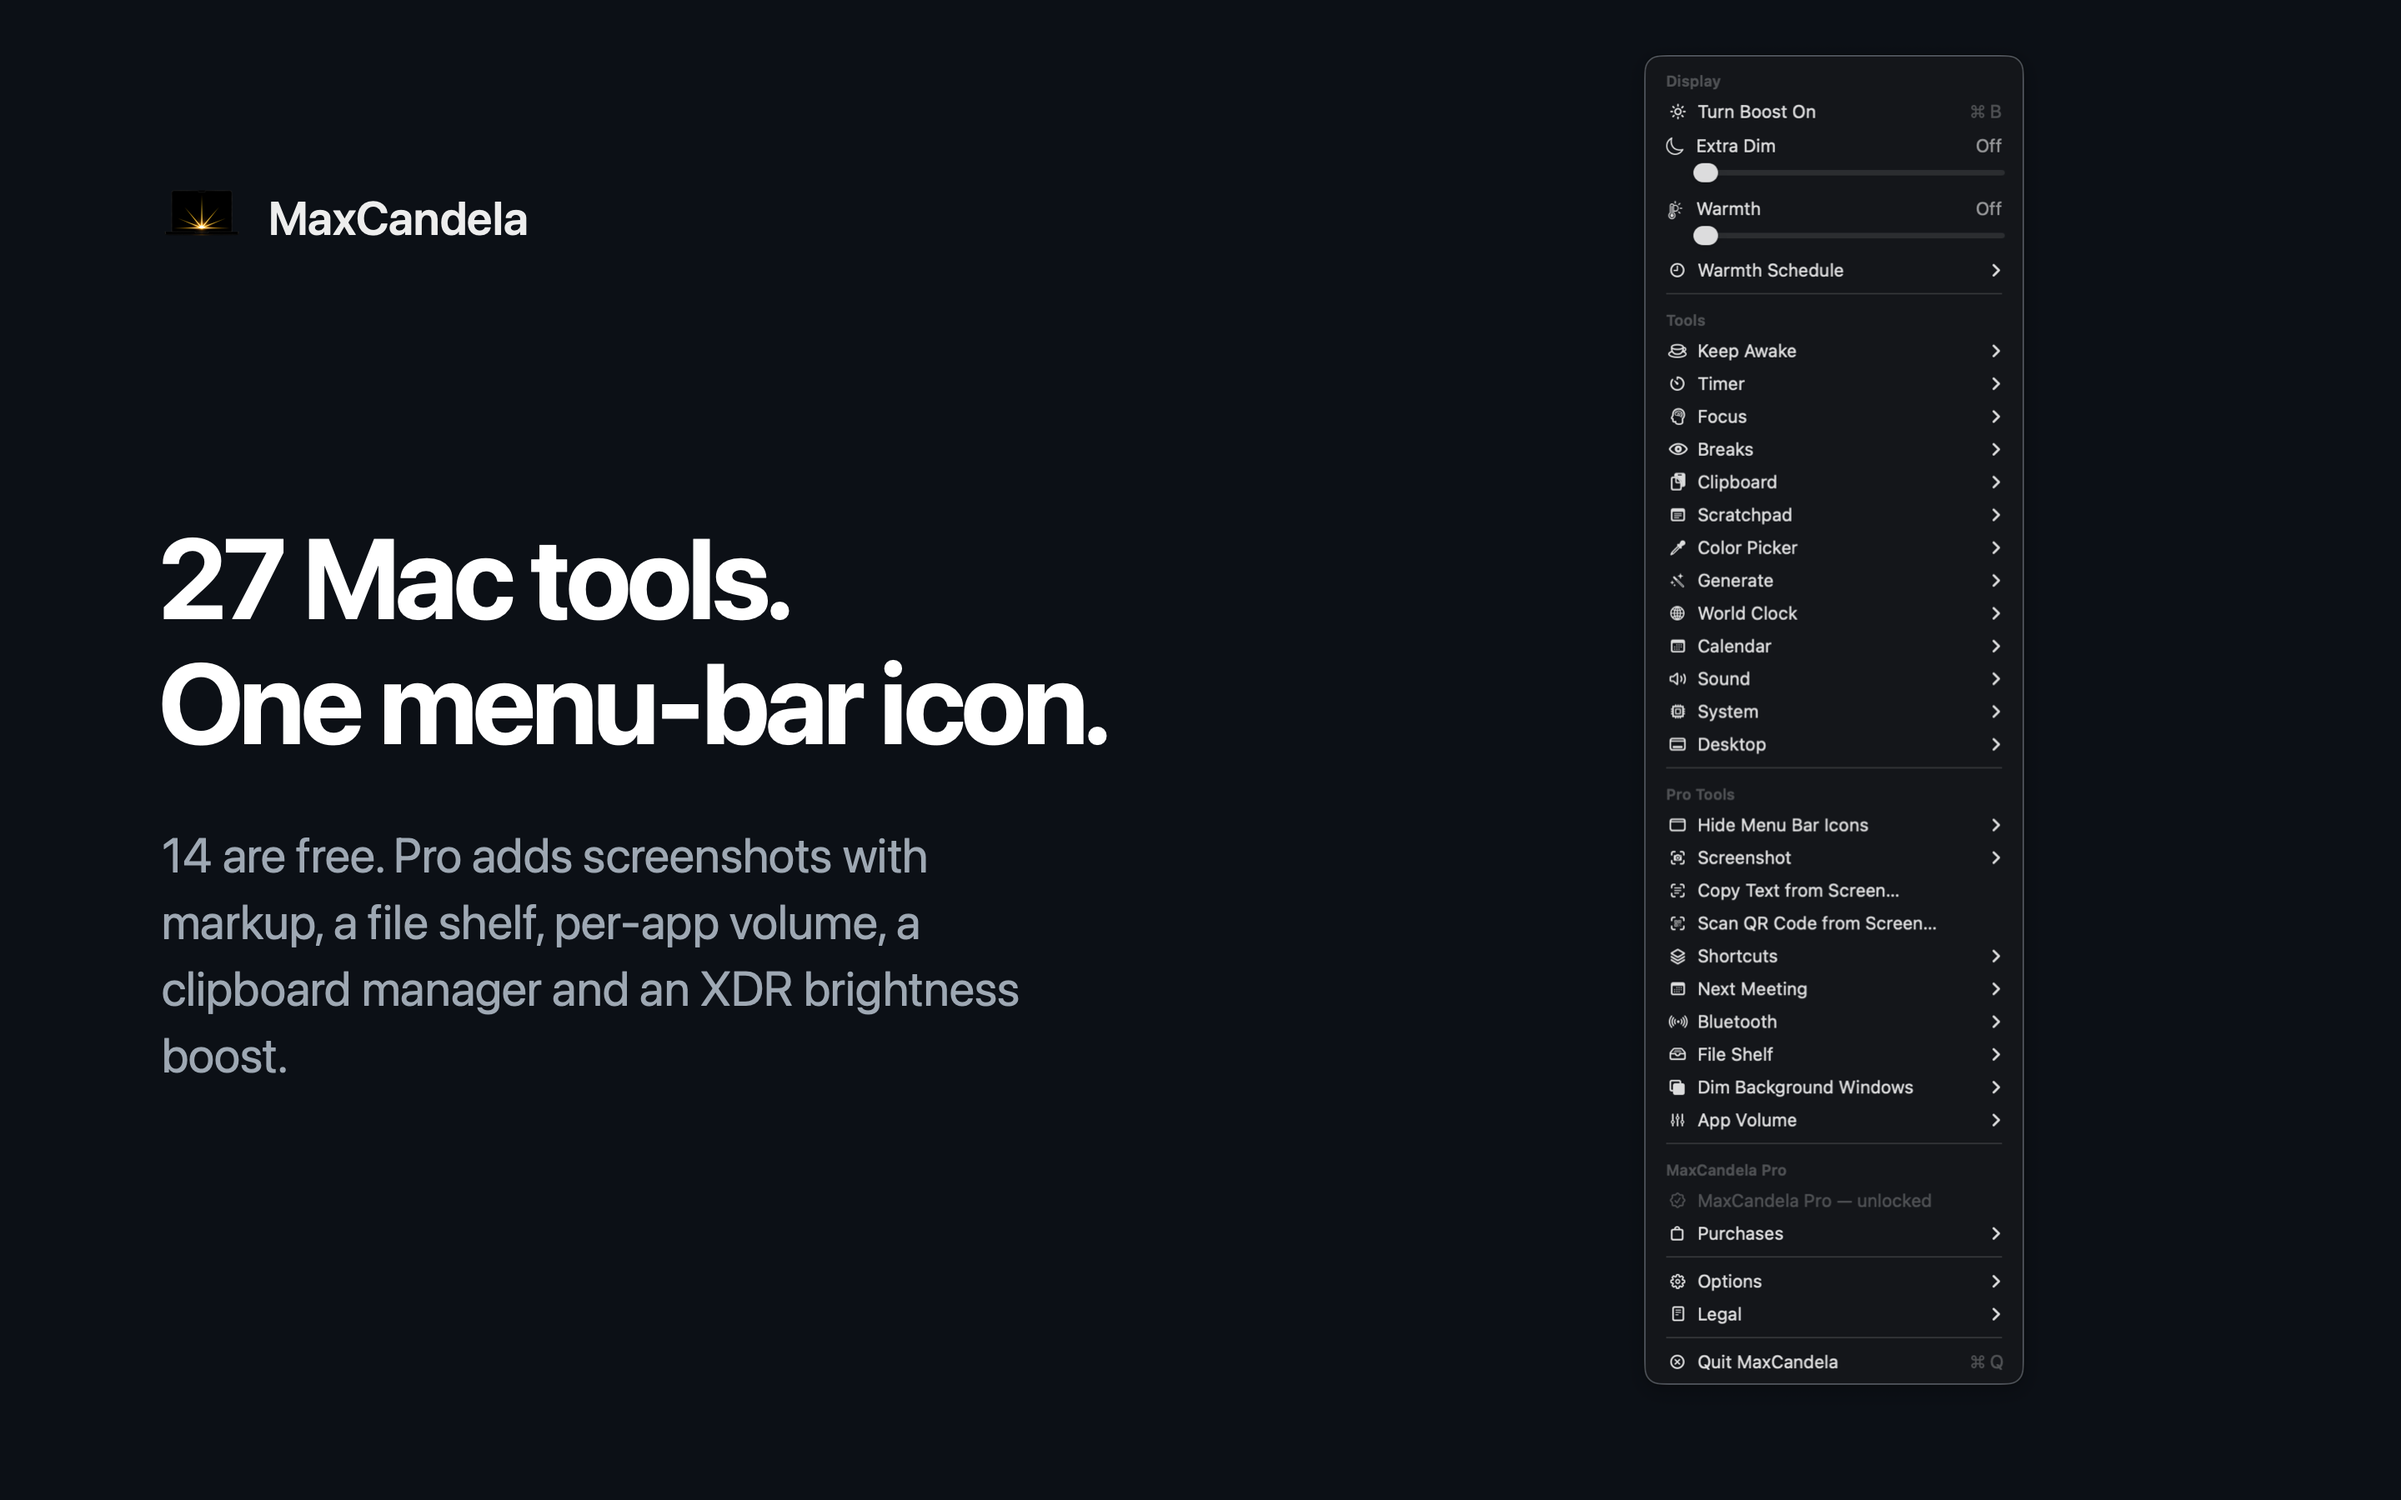
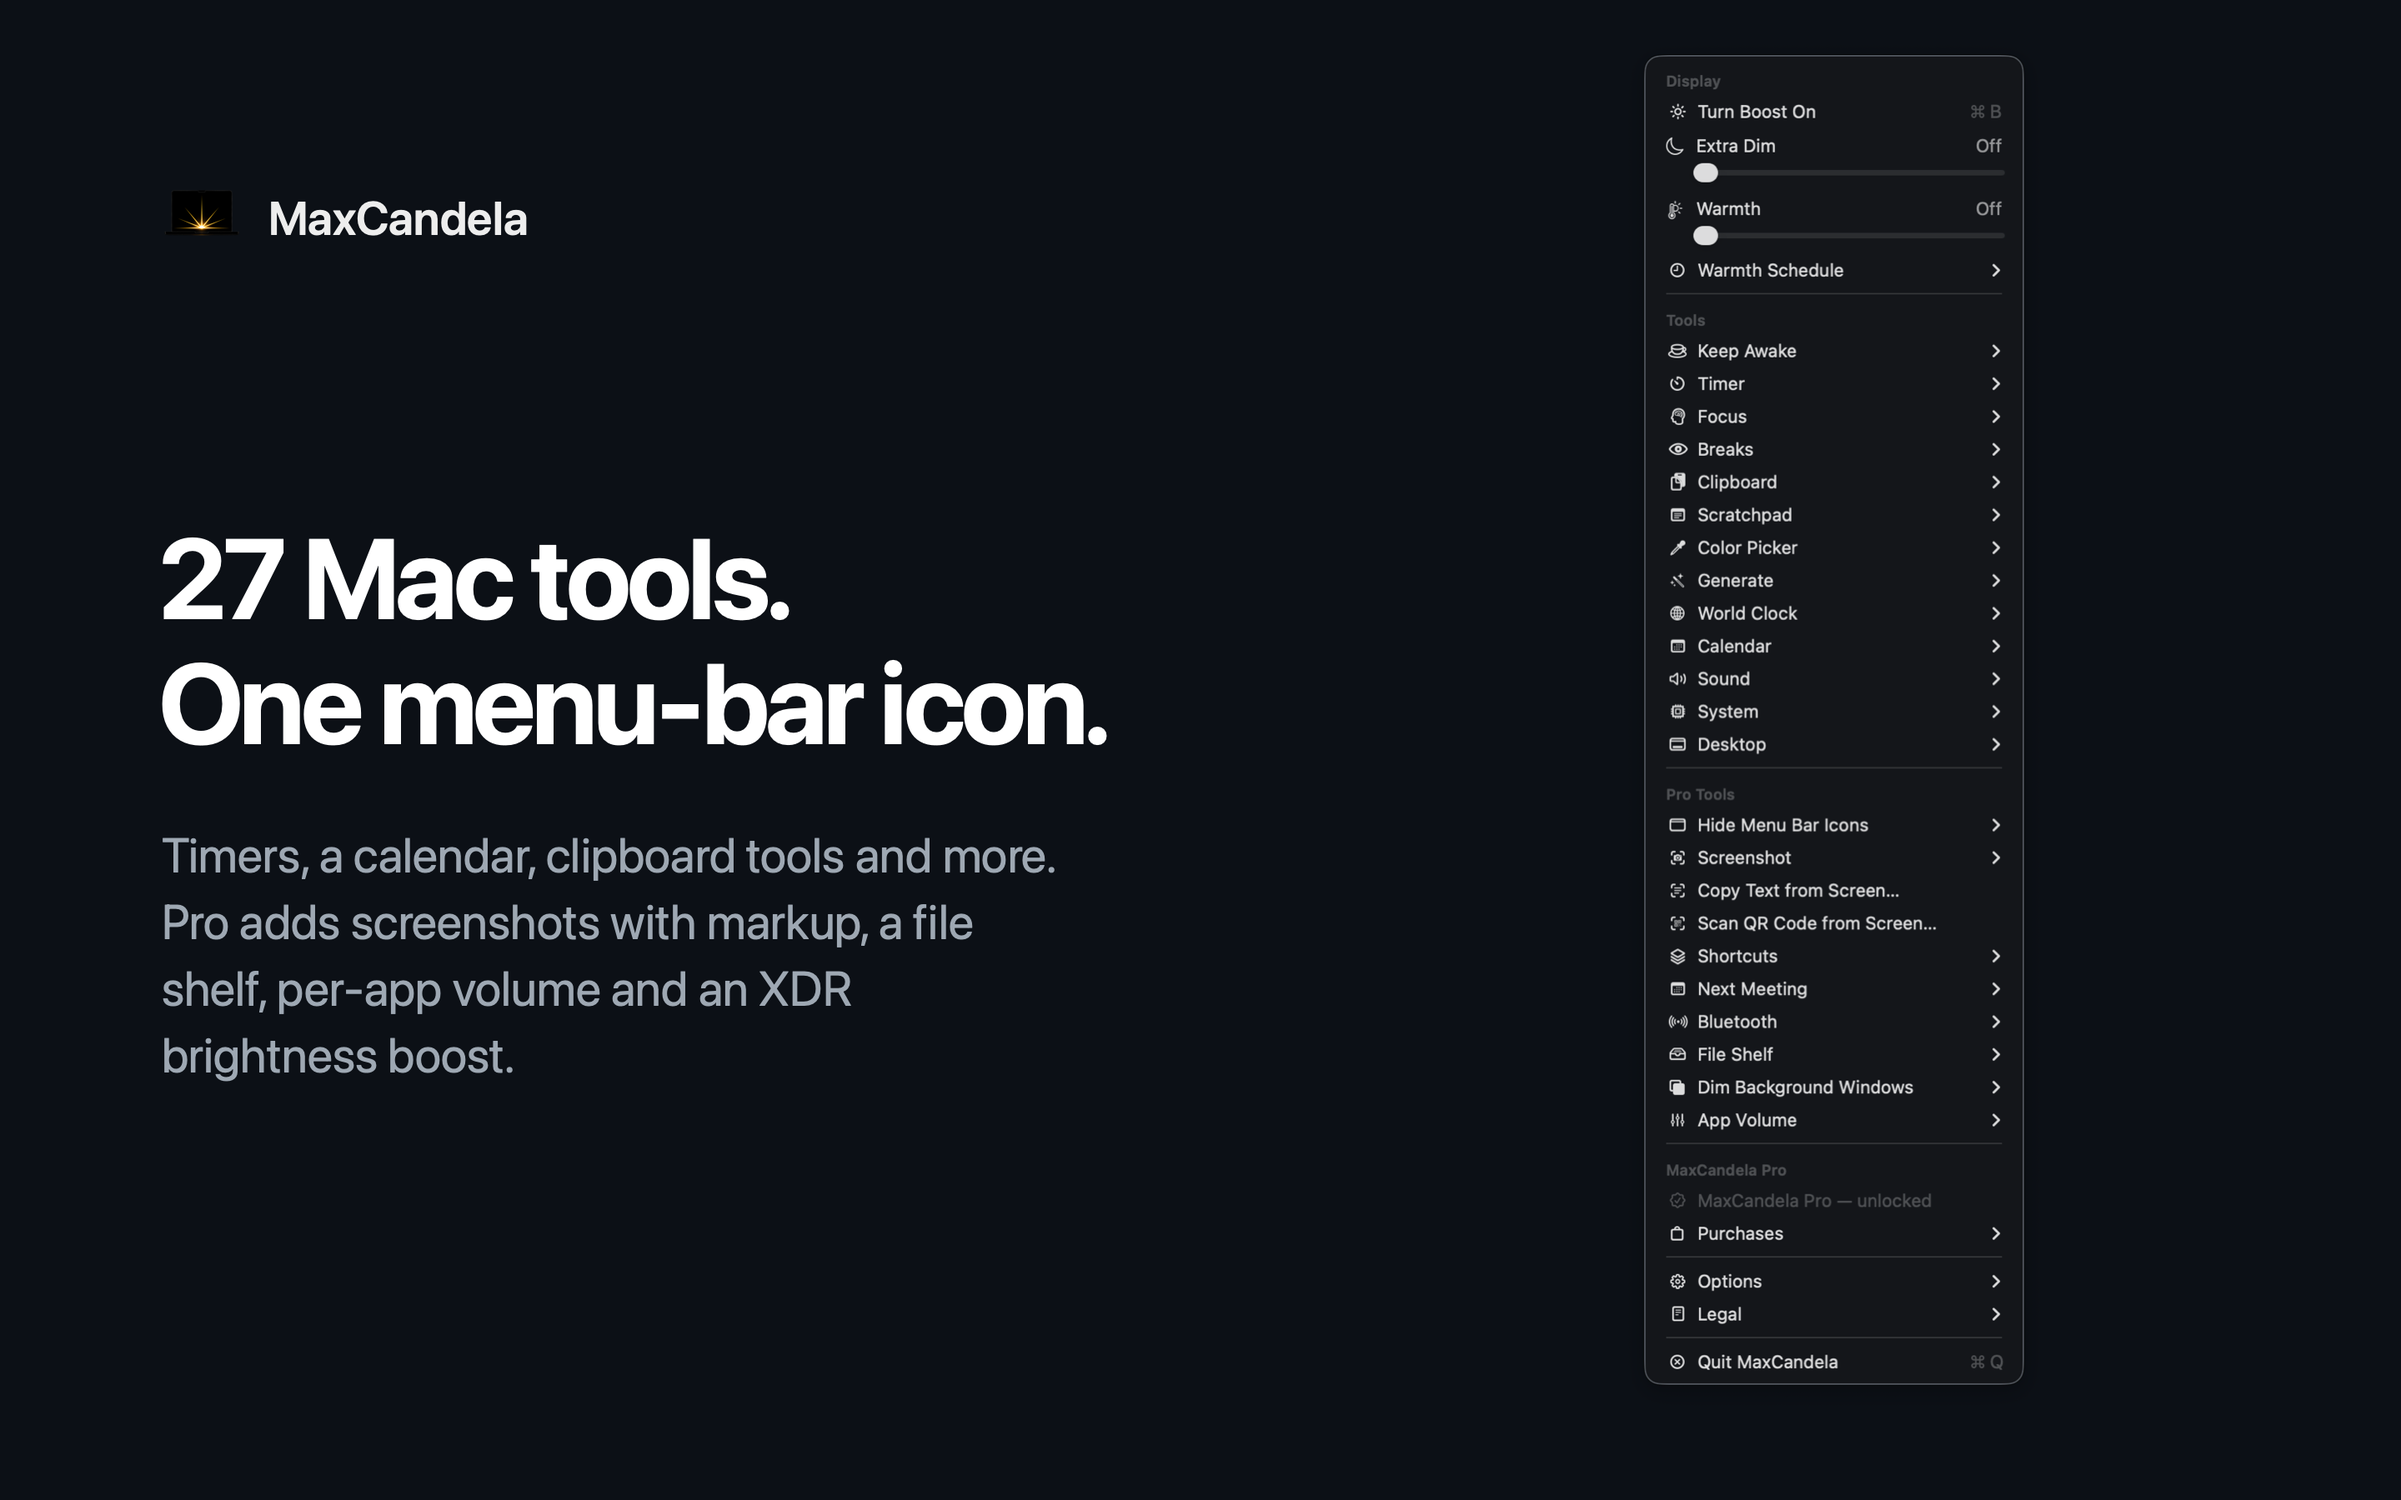
Store screenshot 1: drop "14 are free" (Guideline 2.3.7)
App Review rejected 2.1.4 (24) because the first screenshot's caption
said "14 are free." — Apple counts "free" in a screenshot as a price
reference. Caption reworded, 1-toolbox.png recomposed from the existing
captures, and the rule noted in CLAUDE.md.

Changed region(s): [[0.0625, 0.56, 0.4375, 0.7156]]

diff --git a/scripts/make-app-screenshots.swift b/scripts/make-app-screenshots.swift
@@ -48,7 +48,9 @@ let menuBehind = Layer(file: "main", scale: 0.8, centre: CGPoint(x: 1640, y: 900
 let shots: [Shot] = [
     Shot(name: "1-toolbox",
          headline: "27 Mac tools.\nOne menu-bar icon.",
-         body: "14 are free. Pro adds screenshots with markup, a file shelf, per-app volume, a clipboard manager and an XDR brightness boost.",
+         // No "free", no prices, no "trial" in any caption: App Review rejected
+         // 2.1.4 (24) under Guideline 2.3.7 for "14 are free." here (2026-11-25).
+         body: "Timers, a calendar, clipboard tools and more. Pro adds screenshots with markup, a file shelf, per-app volume and an XDR brightness boost.",
          layers: [Layer(file: "main", scale: 0.82, centre: CGPoint(x: 2200, y: 900))]),
     Shot(name: "2-calendar",
          headline: "Your month,\nin the menu bar.",

diff --git a/CLAUDE.md b/CLAUDE.md
@@ -744,6 +744,14 @@ set so they show the App Store build's tool list (no Window Snapping), the
 flat layout, and — for the calendar — an expired trial, so no real events can
 appear. A markup-editor screenshot was tried twice and dropped (Daniel:
 "looks bad"); don't re-add it unasked.
+**No price words in a caption — "free" counts** (Guideline 2.3.7). 2.1.4 (24)
+was rejected on 2026-11-25 for shot 1's "14 are free."; the caption was
+reworded and `1-toolbox.png` recomposed the same day, the screenshot was
+replaced in App Store Connect and 2.1.4 (24) resubmitted ("Waiting for
+Review", 2026-11-25 6:26 PM). Prices and the trial belong in the description,
+where 2.3.2 requires them. App Store Connect also holds a **2.1.4 (25)** that
+this repo has no record of (source is at 24); it was deliberately not
+submitted.
 They are composed from **real captures** of the menus: the debug app's
 screenshot mode (`MAXCANDELA_SHOT`, bottom of `MenuBarController.swift`)
 covers the whole screen with an opaque backdrop, opens one real menu over it
